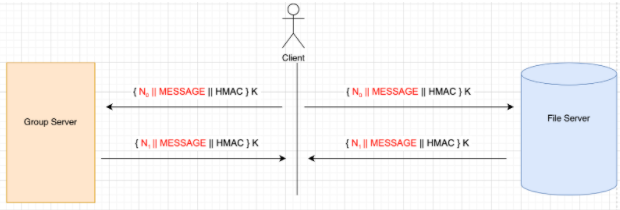
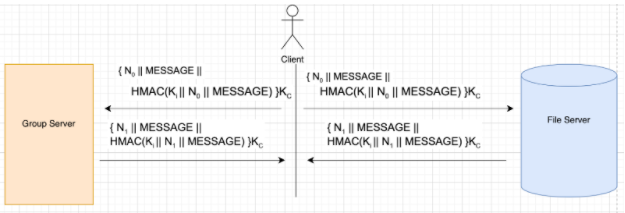
Pre workshop pt2

diff --git a/doc/phase4-writeup.htm b/doc/phase4-writeup.htm
@@ -20,6 +20,11 @@ header {
   margin-right: auto;
 }
 
+.tablecenter {
+  margin-left: auto;
+  margin-right: auto;
+}
+
 figcaption {
   text-align: center;
   color: aquamarine;
@@ -37,6 +42,11 @@ h1 {
     color: crimson;
 }
 
+table, th, td {
+  border: 1px solid cornflowerblue;
+
+}
+
 /* END CHANGES HERE */
   </style>
   <body>
@@ -45,7 +55,7 @@ h1 {
       <h2>
 <!-- BEGIN CHANGES HERE -->
 
-Add your names and Pitt email addresses here
+Dane Halle dmh148@pitt.edu | Kyle O'Malley jko12@pitt.edu | Quinnan Gill qcg1@pitt.edu
 
 <!-- END CHANGES HERE -->
       </h2>
@@ -68,7 +78,7 @@ your group has decided to use to address threats T5–T7.</p>
 </p>
 
 <p>
-  To ensure integrity and semantic security is provided in the system, all information will be encrypted with a nonce and appended with a HMAC hash. Before the message is encrypted, a nonce will be generated and that message and nonce will be hashed into an HMAC. This will then be encrypted and sent to its intended recipient.
+  To ensure integrity and semantic security is provided in the system, all information will be paired with an incrementing value (initially a nonce) and a HMAC of the message and nonce. Before the message is encrypted, a nonce will be generated and that message and nonce will be hashed into an HMAC. This will then be encrypted and sent to its intended recipient.
 </p>
 
 <figure>
@@ -77,15 +87,44 @@ your group has decided to use to address threats T5–T7.</p>
 </figure>
 
 <p>
-  As seen in Diagram T5.1, anything highlighted in red will be hashed to generate the HMAC. For the HMAC, a SHA-256 hash will be generated with the message and an opad of the key and then another SHA-256 hash will be generated from the first one’s output appended with the ipad of key. For more information on how the opad and ipad will be generated see source one below. The nonce will be continuously increased per message in the session to ensure that it is unique with each key and preventing any replay and reorder attacks. The client and the servers will have to maintain state to verify that the nonce is increasing. The client and servers will also need to verify the HMAC after every message received. This method will also be applied with EKE to ensure integrity in the key exchange between the client and the server.
+  The nonce will be continuously increased by 1 per message in the session to ensure that it is unique with each key and preventing any replay and reorder attacks. The client and the servers will have to maintain state to verify that the nonce is increasing and produce an error message when the nonce is not greater than the current value in the state. The client and servers will also need to verify the HMAC after every message received. This method will also be applied with EKE to ensure integrity in the key exchange between the client and the server.
 </p>
 
 <p>
-  The nonce will provide semantic security because it requires the nonce in each message to increase. If the attacker performs a replay and reorder attack the client or server will notice that the nonce did not increase from its last stored value and thus invalidate the message. If the attacker modifies the nonce, this will be detected by an invalid HMAC and the message will be ignored. The HMAC also provides integrity for the entire message. If the attacker modifies any bit of the transmission, even the HMAC, the comparison between the hashed nonce and message and the HMAC will be non equal. This will help detect any integrity violation of the transmission.
+  To provide integrity as well as confidentiality two keys must be derived from the processes seen in Diagram T5.2 and Diagram T5.3. But instead it will generate two different keys.
 </p>
 
+<figure>
+  <img src="./images/T5.2.png" alt="T5.2" class="center">
+  <figcaption>Diagram T5.2</figcaption>
+</figure>
+
+<figure>
+  <img src="./images/T5.3.png" alt="T5.3" class="center">
+  <figcaption>Diagram T5.3</figcaption>
+</figure>
+
 <p>
-  <i><b>Note: Need to add reorder attack with replay attack</b></i>
+  After the key between the client and each of the servers is established, the integrity key will be generated by taking a SHA 2 hash of the derived key with the string “Integrity” and the key used to encrypt the message will be a SHA 2 hash of the derived key with the string “Confidentiality”. See Diagram T5.4 below for more information.
+</p>
+
+<table class="tablecenter">
+  <tr>
+    <th>Key Type</th>
+    <th>Key Value (K = derived key)</th>
+  </tr>
+  <tr>
+    <td>Integrity Key (K<sub>i</sub>)</td>
+    <td>K<sub>i</sub> = SHA-256(“Integrity” || K)</td>
+  </tr>
+  <tr>
+    <td>Confidentiality Key (K<sub>c</sub>)</td>
+    <td>K<sub>c</sub> = SHA-256(“Confidentiality” || K)</td>
+  </tr>
+</table>
+
+<p>
+  The nonce will provide semantic security because it requires the nonce in each message to increase. If the attacker performs a replay or a reorder attack the client or server will notice that the nonce did not increase from its last stored value and thus invalidate the message. The key derivation will also prevent replay attacks or different servers because it is unique to each client/server session. If the attacker modifies the nonce, this will be detected by an invalid HMAC and the message will be ignored. The HMAC also provides integrity for the entire message. If the attacker modifies any bit of the transmission, even the HMAC, the comparison between the hashed nonce and message and the HMAC will be non equal. This will help detect any integrity violation of the transmission.
 </p>
 
 <!-- END CHANGES HERE -->
@@ -135,11 +174,7 @@ your group has decided to use to address threats T5–T7.</p>
 </p>
 
 <p>
-  We will do this using a similar mechanism used to protect against T2. We will modify the token to include two new fields, file server id and a timestamp. Then every time the user makes a file server request, they will first request a refreshed token from the group server that includes the current timestamp and the file server id of the file server they are making a request to. With that token refresh the group server will sign that token just like in T2 using their private key.
-</p>
-
-<p>
-  Once the user gets this refreshed token with the timestamp, file server id, and group server signature, they will send all of that over to the file server they are making the request to. Once the file server gets that from the user, they will verify the token signature using the group server public key they got from the out of bounds operation in T2. They will then check if the timestamp is not over 1 minute old. They will then check if the token’s file server ID matches its own file server id.
+  We will do this using a similar mechanism used to protect against T2. We will modify the token to include two new fields, file server public key and a timestamp. Then every time the user makes a file server request, they will first request a refreshed token from the group server that includes the current timestamp and the file server public key of the file server they are making a request to. That refreshed token will be signed by the group server just like in T2 using their private key. Below is a visual refresher of how T2 works. In this iteration of our product we modified the order of the string encodings as well as hash the inputs using SHA-256 in order to ensure certain user input (such as group names like ‘ADMIN,everyone’) doesn’t give a user inaccurate accesses.
 </p>
 
 <figure>
@@ -148,7 +183,16 @@ your group has decided to use to address threats T5–T7.</p>
 </figure>
 
 <p>
-  T7.1 gives a visual for the communications every time the user makes a file server request.
+  Once the user gets this refreshed token with the timestamp, file server id, and group server signature, they will send all of that over to the file server they are making the request to. Once the file server gets that from the user, they will verify the token signature using the group server public key they got from the out of bounds operation in T2. They will then check if the timestamp is not over 10 minutes old. They will then check if the token’s file server public key matches its own public key.
+</p>
+
+<figure>
+  <img src="./images/T7.2.png" alt="T7.2" class="center">
+  <figcaption>Diagram T7.2</figcaption>
+</figure>
+
+<p>
+  T7.2 gives a visual for the communications every time the user makes a file server request.
 </p>
 
 <p>
@@ -161,18 +205,18 @@ your group has decided to use to address threats T5–T7.</p>
       <h2>Discussion</h2>
 <!-- BEGIN CHANGES HERE -->
 
-<p>Conclude with a paragraph or two discussing the interplay between your
-proposed mechanisms, and commenting on the design process that your group
-followed. Did you discuss other ideas that didn’t pan out before settling on the
-above-documented approach? Did you end up designing a really interesting
-protocol suite that addresses multiple threats at once? Use this space to show
-off your hard work!</p>
+<p>
+  Conclude with a paragraph or two discussing the interplay between your proposed mechanisms, and commenting on the design process that your group followed. Did you discuss other ideas that didn’t pan out before settling on the above-documented approach? Did you end up designing a really interesting protocol suite that addresses multiple threats at once? Use this space to show off your hard work!
+</p>
 
-<p>Finally, spend about one paragraph convincing me that your modified protocols
-still address the threats T1–T4 described in Phase 3 of the project.</p>
+<p>
+  Finally, spend about one paragraph convincing me that your modified protocols
+  still address the threats T1–T4 described in Phase 3 of the project.
+</p>
 
-<p>If your group did any extra credit, please discuss that in this section, as
-well.</p>
+<p>
+  If your group did any extra credit, please discuss that in this section, as well.
+</p>
 
 <!-- END CHANGES HERE -->
     </section>
